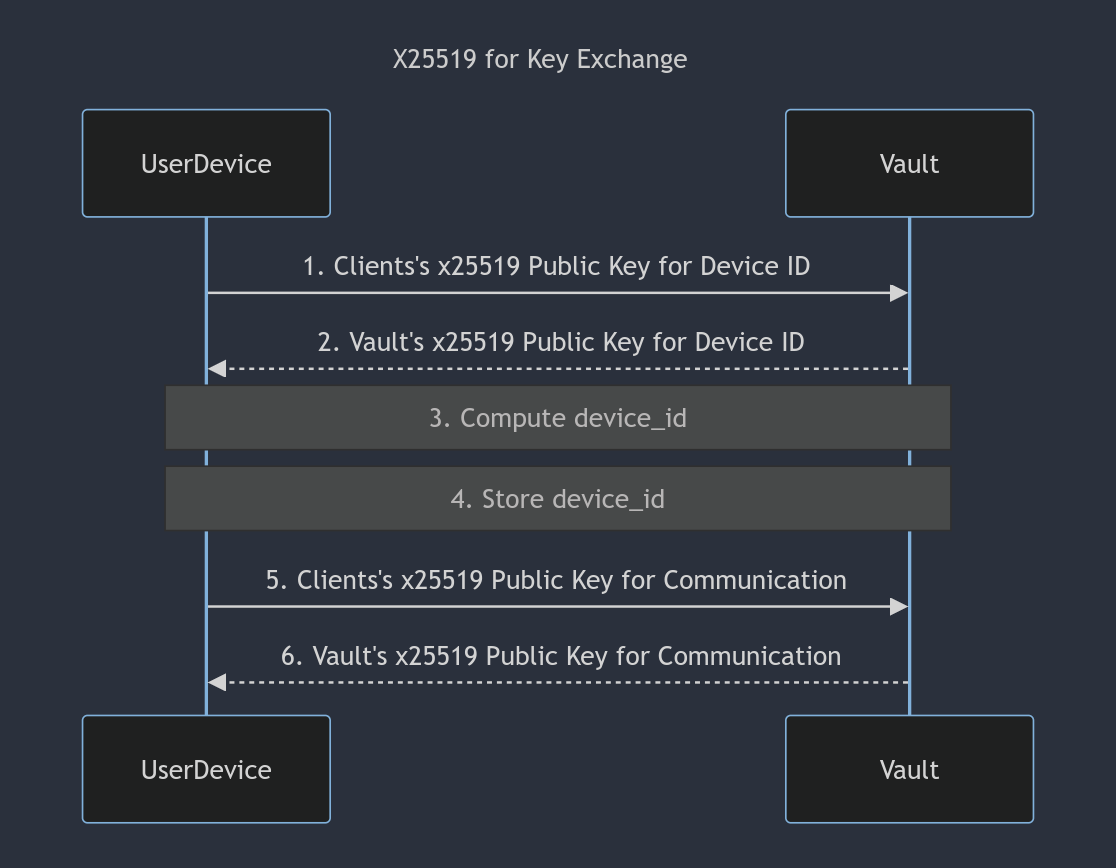
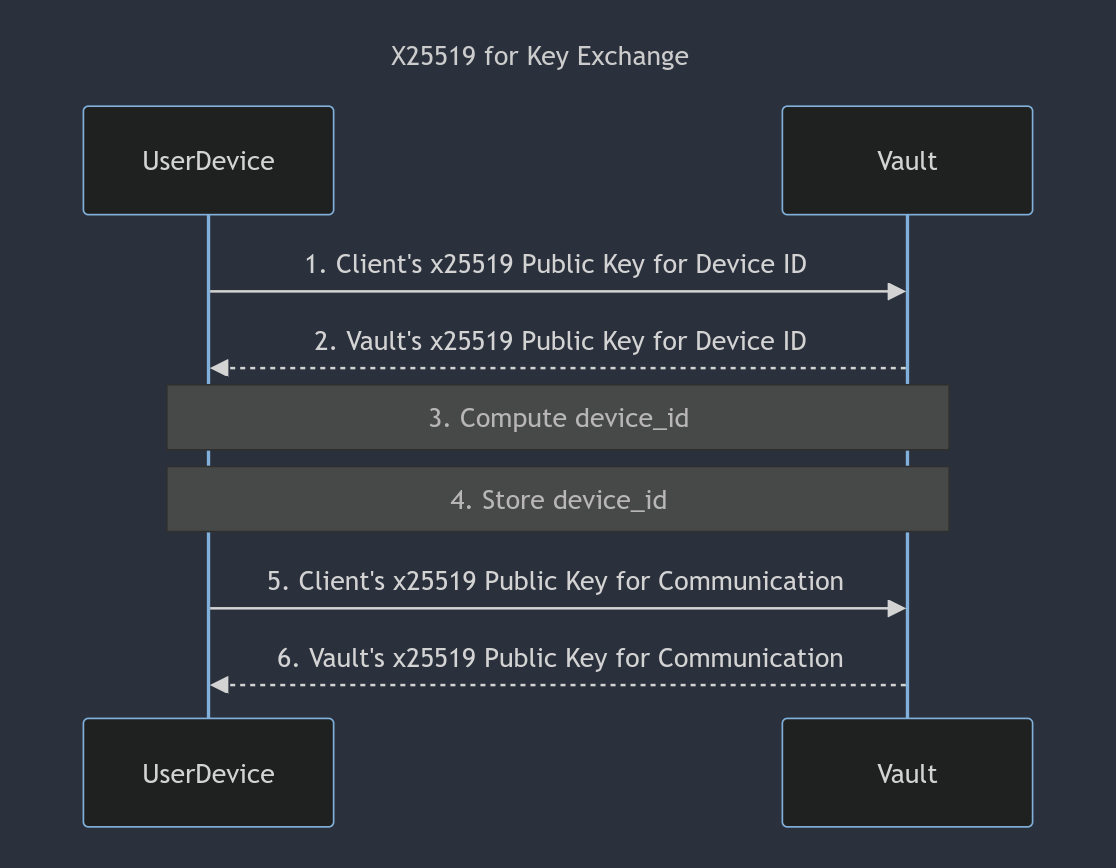
refactor: update vault-0-1-0 release note

diff --git a/_releases/vault-0-1-0.md b/_releases/vault-0-1-0.md
@@ -20,7 +20,7 @@ The Vault is a technology developed by the SMSWithoutBorders team to secure user
 
 ### Key Features
 
-- **End-to-End Encryption**: Devices exchange keys using X25519 for secure communication with the Vault.
+- **End-to-End Encryption**: Devices exchange keys using X25519[(Curve25519)](https://en.wikipedia.org/wiki/Curve25519) for secure communication with the Vault.
 - **Device Identification**: Each device is uniquely identified using a device_id generated from the key exchange.
 - **Double Ratchet Algorithm**: Ensures message confidentiality and forward secrecy.
 
@@ -34,19 +34,20 @@ To be identified and communicate securely, a device must perform two X25519 key 
 
 ![generating-an-identity](/posts/generating_an_identity.png)
 
-- **For Generating an Identity (Device ID)**: Refer to the [specification](https://github.com/smswithoutborders/SMSwithoutborders-BE/blob/staging/docs/specifications.md#2-device-id).
-- **For Communication**: Encrypting and decrypting messages using the Double Ratchet Algorithm.
+**1. For Generating an Identity (Device ID)**: Refer to the [specification](https://github.com/smswithoutborders/SMSwithoutborders-BE/blob/staging/docs/specifications.md#2-device-id).
+
+**2. For Communication**: Encrypting and decrypting messages using the Double Ratchet Algorithm.
 
 #### _**Communication Using The Double Ratchet Algorithm**_
 
-Messages sent from an authenticated device are encrypted using the Double Ratchet Algorithm and can be decrypted by the Vault using the shared secret obtained from the X25519 key exchange for communication.
+Messages sent from an authenticated device are encrypted using the Double Ratchet Algorithm and can be decrypted by the Vault using the same algorithm.
 
 ![double-ratchet-algorithm](/posts/double-ratchet-algorithm.png)
 
 ### Considerations
 
 - **Transmission via SMS**: End-to-end encryption between the device and the Vault ensures that no unauthorized party can read the content in transit.
-- **Security**: The use of the Double Ratchet Algorithm provides forward secrecy and ensures that even if one message is compromised, previous and future messages remain secure.
+- **Security**: The use of the Double Ratchet Algorithm provides forward secrecy and ensures that even if one session is compromised, it does not compromise future sessions.
 - **Authentication**: Devices are authenticated using their unique device_id, computed from the initial key exchange, ensuring that only authorized devices can communicate with the Vault.
 
 ### **Changelog**
